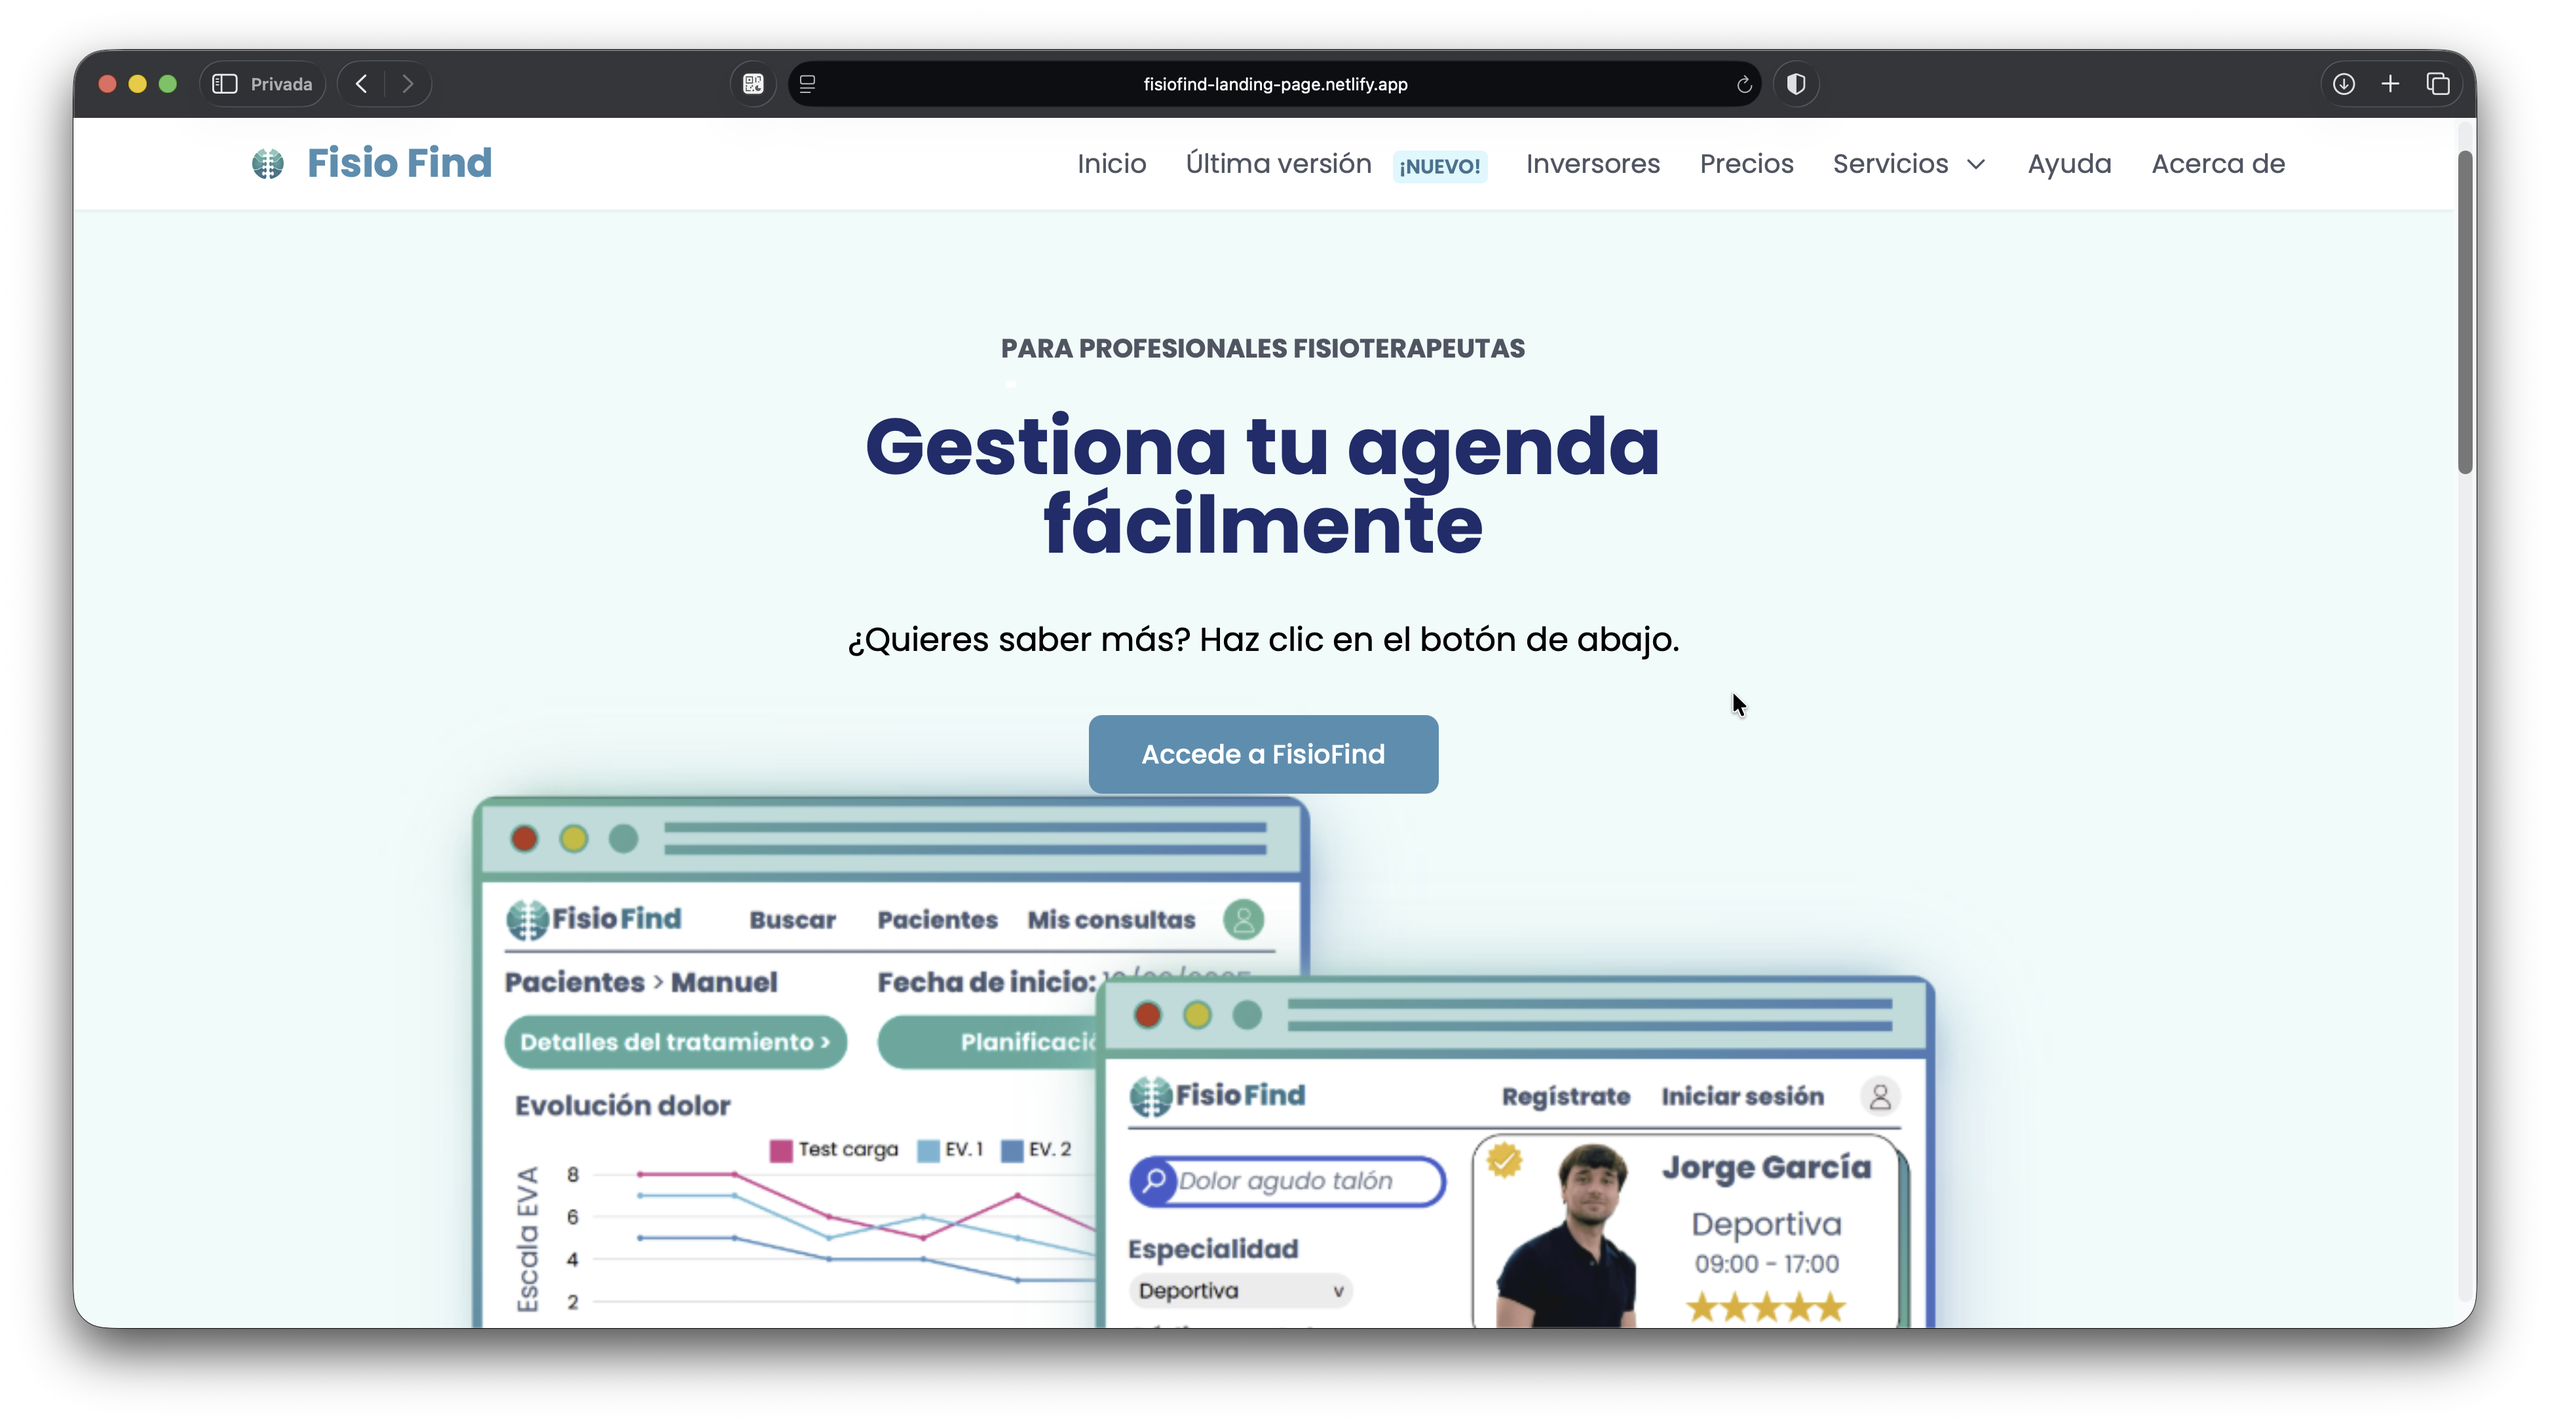
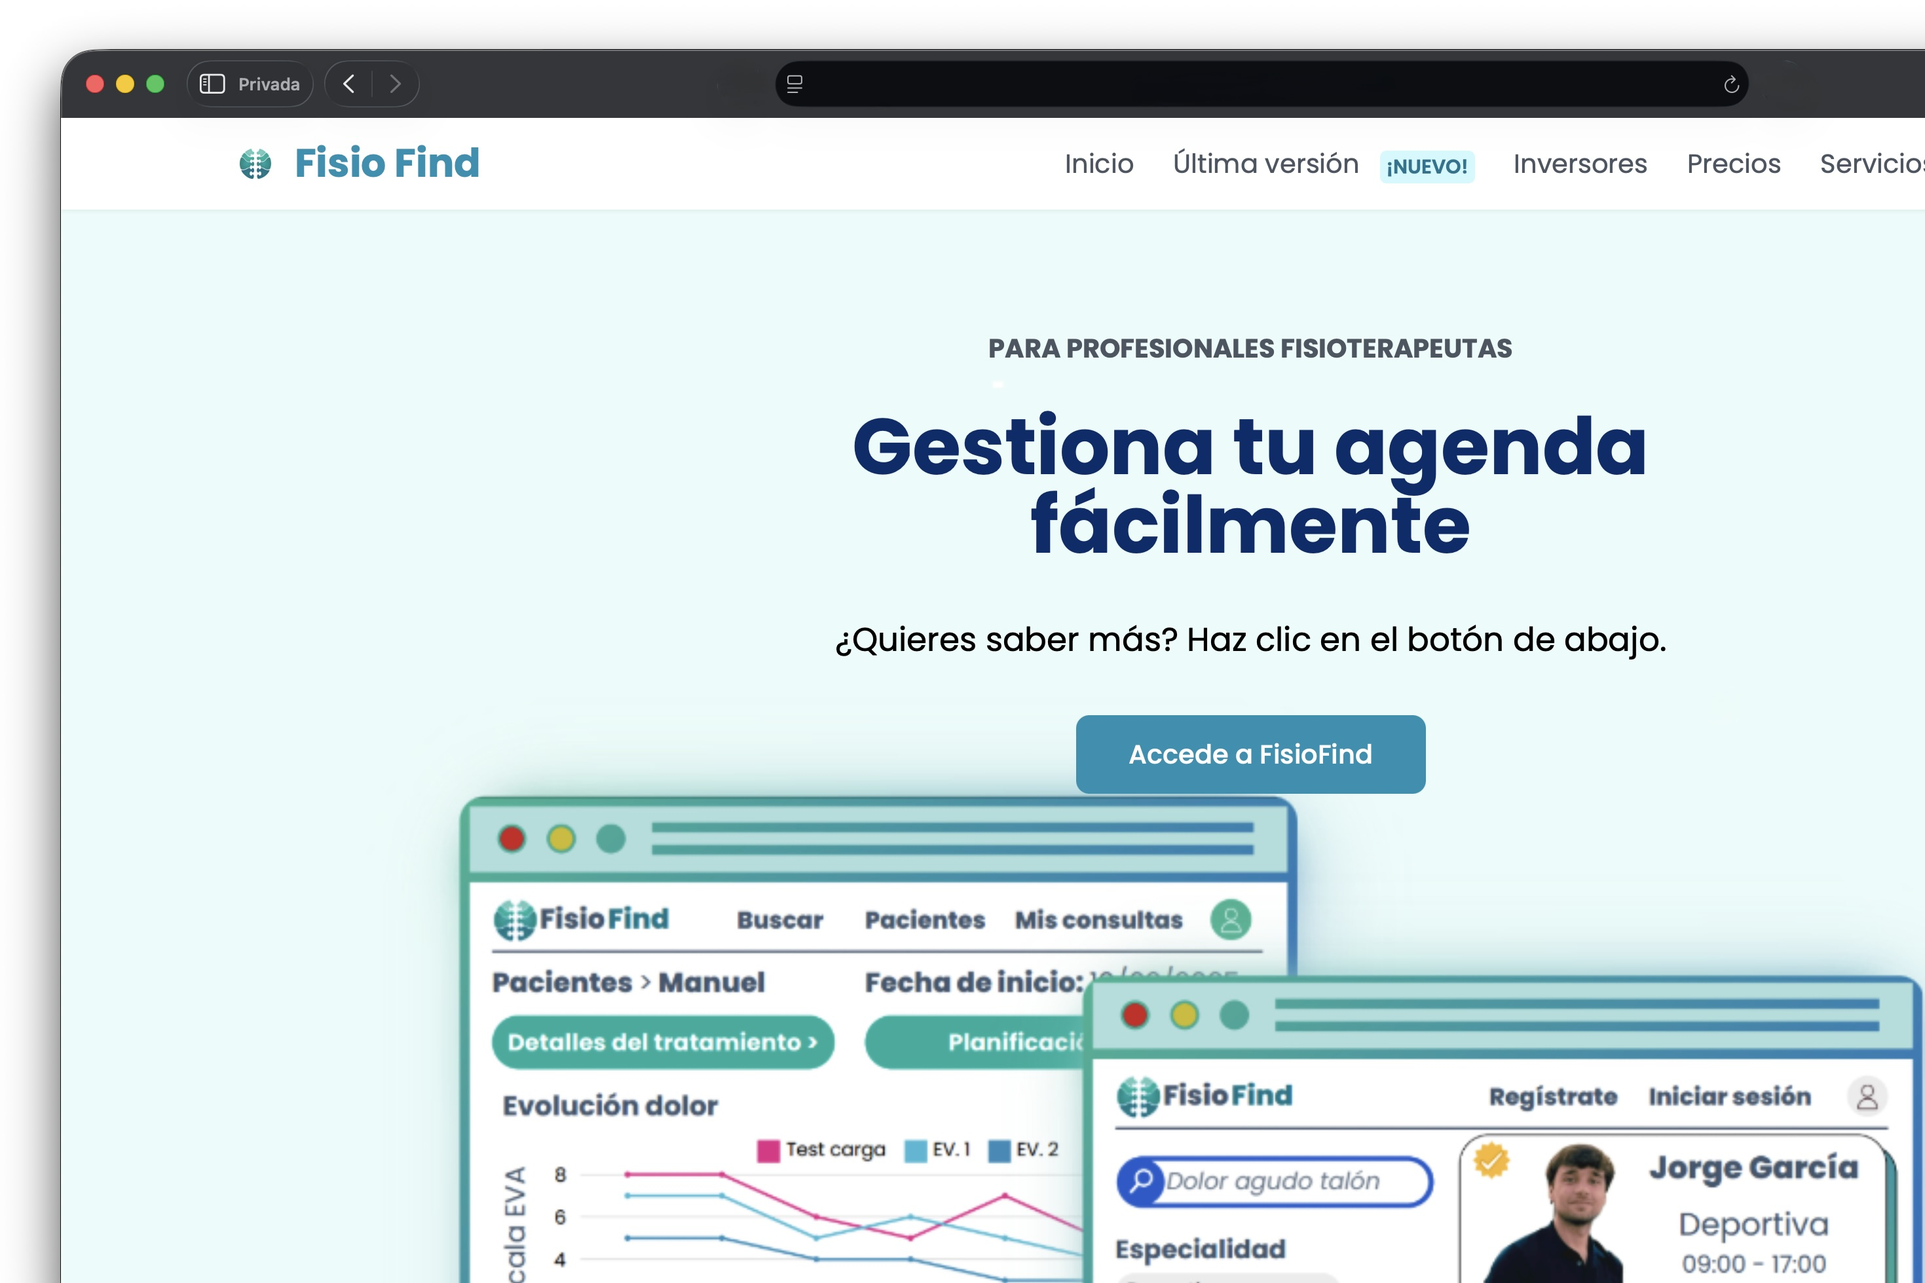
feat: add embla-carousel-wheel-gestures plugin and enhance navbar with service links

diff --git a/frontend/src/components/ui/navbar.tsx b/frontend/src/components/ui/navbar.tsx
@@ -171,6 +171,7 @@ const MobileSection = ({
 
 const Navbar = () => {
   const t = useTranslations("home");
+  const tServices = useTranslations("services");
   const locale = useLocale();
   const router = useRouter();
   const pathname = usePathname();
@@ -182,6 +183,40 @@ const Navbar = () => {
   const [hasEnrolledCourses, setHasEnrolledCourses] = useState(false);
   const [activeMegaItem, setActiveMegaItem] = useState<string | null>(null);
   const [viewportWidth, setViewportWidth] = useState<number | null>(null);
+
+  const serviceLinks = useMemo(
+    () => [
+      {
+        id: "callbot",
+        href: "/automatizaciones-chatbots",
+        title: tServices("showcase.chatbotRecepcionista"),
+        description: tServices("showcase.chatbotRecepcionistaNote"),
+        image: "/static/servicios/chatbot_recepcionista.webp",
+      },
+      {
+        id: "automation",
+        href: "/automatizaciones-personalizadas-para-empresas-con-n8n",
+        title: tServices("showcase.personalizadas"),
+        description: tServices("showcase.automationNote"),
+        image: "/static/servicios/automatizaciones_personalizadas.webp",
+      },
+      {
+        id: "odoo",
+        href: "/implantacion-odoo",
+        title: tServices("showcase.odoo"),
+        description: tServices("showcase.odooNote"),
+        image: "/static/servicios/implantacion_odoo.webp",
+      },
+      {
+        id: "pwa",
+        href: "/desarrollo-de-app-webs",
+        title: tServices("showcase.pwa"),
+        description: undefined as string | undefined,
+        image: "/static/servicios/desarrollo_de_app_webs.webp",
+      },
+    ],
+    [tServices],
+  );
 
   const { courses: allMenuCourses } = useSiteData();
 
@@ -413,7 +448,7 @@ const Navbar = () => {
   const navItems = useMemo(
     () => [
       { id: "home", type: "link", href: "/", label: t("navigation.home") },
-      { id: "services", type: "link", href: "/servicios", label: t("navigation.services") },
+      { id: "services", type: "mega", href: "/servicios", label: t("navigation.services") },
       ...(menuCourses.length > 0 ? [{ id: "formation", type: "mega", href: "/formacion", label: t("navigation.formation") }] : []),
       ...(locale !== "en" ? [{ id: "blog", type: "mega", href: "/blog", label: t("navigation.blog") }] : []),
       { id: "faq", type: "link", href: "/faq", label: t("navigation.faq") },
@@ -466,6 +501,7 @@ const Navbar = () => {
 
   const isBlogSectionActive = pathname.includes("/blog") || pathname.includes("/news");
   const shouldLoadCourseImages = activeMegaItem === t("navigation.formation");
+  const shouldLoadServiceImages = activeMegaItem === t("navigation.services");
 
   return (
     <>
@@ -504,6 +540,22 @@ const Navbar = () => {
                         item.id === "blog" ? isBlogSectionActive : isLinkActive(item.href)
                       }
                     >
+                      {item.id === "services" && (
+                        <div className="grid grid-cols-1 gap-3 min-w-[360px]">
+                          {serviceLinks.map((service) => (
+                            <ProductItem
+                              key={service.id}
+                              title={service.title}
+                              description={service.description}
+                              href={service.href}
+                              src={service.image}
+                              loadOnHover={false}
+                              loadEnabled={shouldLoadServiceImages}
+                            />
+                          ))}
+                          <HoveredLink href="/servicios">{t("navigation.serviceSubmenu")}</HoveredLink>
+                        </div>
+                      )}
                       {item.id === "formation" && (
                         <div className="grid grid-cols-1 gap-3 min-w-[360px]">
                           {menuCourses.length > 0 &&
@@ -615,6 +667,32 @@ const Navbar = () => {
           >
             <div className="py-4 px-4 sm:px-6">
               <div className="flex flex-col space-y-3">
+                <MobileSection
+                  title={t("navigation.services")}
+                  isOpen={mobileSection === "services"}
+                  onToggle={() => toggleMobileSection("services")}
+                >
+                  {serviceLinks.map((service) => (
+                    <Link
+                      key={service.id}
+                      href={service.href}
+                      onClick={() => setIsMenuOpen(false)}
+                      className="block rounded-md px-3 py-2 bg-white/60 dark:bg-black/20 hover:bg-[--swatch--ivory-medium] dark:hover:bg-[--swatch--slate-medium] transition-colors"
+                    >
+                      <div className="text-sm font-semibold text-slate-dark dark:text-ivory-light line-clamp-2">
+                        {service.title}
+                      </div>
+                    </Link>
+                  ))}
+                  <Link
+                    href="/servicios"
+                    onClick={() => setIsMenuOpen(false)}
+                    className="block rounded-md px-2 py-2 text-sm font-medium text-slate-medium dark:text-cloud-medium hover:text-clay dark:hover:text-clay hover:bg-[--swatch--ivory-medium] dark:hover:bg-[--swatch--slate-medium]"
+                  >
+                    {t("navigation.serviceSubmenu")}
+                  </Link>
+                </MobileSection>
+
                 {menuCourses.length > 0 && (
                   <MobileSection
                     title={t("navigation.formation")}
@@ -632,11 +710,6 @@ const Navbar = () => {
                           <div className="text-sm font-semibold text-slate-dark dark:text-ivory-light line-clamp-2">
                             {course.title}
                           </div>
-                          {(course.subtitle || course.description) && (
-                            <div className="text-xs text-slate-light dark:text-cloud-medium mt-1 line-clamp-2">
-                              {course.subtitle || course.description}
-                            </div>
-                          )}
                         </Link>
                       ))}
                     <Link
@@ -686,18 +759,6 @@ const Navbar = () => {
                     )}
                   >
                     {t("navigation.home")}
-                  </Link>
-                  <Link
-                    href="/servicios"
-                    onClick={() => setIsMenuOpen(false)}
-                    className={cn(
-                      "transition-colors py-3 px-2 block rounded-md font-medium",
-                      isLinkActive("/servicios")
-                        ? "text-clay dark:text-clay bg-clay/10 dark:bg-clay/10"
-                        : "text-slate-medium dark:text-cloud-medium hover:text-clay dark:hover:text-clay hover:bg-oat/60 dark:hover:bg-[--swatch--slate-light]/30",
-                    )}
-                  >
-                    {t("navigation.services")}
                   </Link>
                   <Link
                     href="/faq"

diff --git a/frontend/src/app/[locale]/desarrollo-de-app-webs/page.client.tsx b/frontend/src/app/[locale]/desarrollo-de-app-webs/page.client.tsx
@@ -3,6 +3,7 @@
 import { useMessages } from "next-intl";
 import dynamic from "next/dynamic";
 import Image from "next/image";
+import { Globe, MonitorSmartphone, Zap } from "lucide-react";
 import ContactForm from "@/components/ui/contact-form.client";
 import Footer from "@/components/ui/footer";
 import { InfoCardCarousel, type InfoCardItem } from "@/components/landing/info-card-carousel";
@@ -10,6 +11,22 @@ import { PortfolioList, type PortfolioProject } from "@/components/landing/portf
 import ReCaptchaWrapper from "../recaptcha-provider";
 import WhatsAppBubbleSkeleton from "@/components/home/whatsapp-bubble-skeleton";
 import { HeroVideoDialog } from "@/components/home/hero-video-dialog";
+
+const PWA_BULLET_ICONS = [Globe, MonitorSmartphone, Zap];
+
+function highlightWord(text: string | undefined, word: string) {
+  if (!text) return text;
+  const parts = text.split(new RegExp(`(${word})`));
+  return parts.map((part, i) =>
+    part === word ? (
+      <em key={i} className="italic">
+        {part}
+      </em>
+    ) : (
+      part
+    )
+  );
+}
 
 const WhatsAppBubble = dynamic(() => import("@/components/home/whatsapp-bubble"), {
   loading: () => <WhatsAppBubbleSkeleton />,
@@ -119,7 +136,7 @@ export default function DesarrolloDeAppWebs() {
       <section className="py-14 md:py-16 bg-neutral-50 dark:bg-neutral-800 transition-colors">
       <div className="mx-auto max-w-5xl">
         <h2 className="text-3xl md:text-4xl font-bold text-center mb-10 text-neutral-900 dark:text-white">
-          {content.videoSection?.title}
+          {highlightWord(content.videoSection?.title, "Agile")}
         </h2>
 
         <div className="max-w-3xl mx-auto">
@@ -143,41 +160,54 @@ export default function DesarrolloDeAppWebs() {
       </section>
 
       {/* WHAT IS A PWA */}
-      <section className="py-14 md:py-16 bg-white dark:bg-neutral-900 transition-colors">
+      <section className="py-16 md:py-24 bg-white dark:bg-neutral-900 transition-colors">
         <div className="max-w-6xl mx-auto px-6">
-          <h2 className="text-3xl md:text-4xl font-bold text-center mb-8 text-neutral-900 dark:text-white">
-            {content.sectionTitles?.whatIsPWA}
-          </h2>
-
-          <div className="grid md:grid-cols-2 gap-12 items-center">
+          <div className="grid md:grid-cols-2 gap-12 md:gap-16 items-center">
             <div>
-              <p className="text-lg text-neutral-700 dark:text-neutral-300 leading-relaxed mb-4">
+              <h2 className="text-3xl md:text-4xl font-bold text-slate-dark dark:text-ivory-light mb-5 leading-tight">
+                {content.sectionTitles?.whatIsPWA}
+              </h2>
+              <p className="text-lg text-slate-medium dark:text-cloud-medium leading-relaxed mb-8">
                 {content.whatIsPWA?.intro}
               </p>
-              <ul className="space-y-3">
-                {content.whatIsPWA?.bullets?.map((bullet: string, i: number) => (
-                  <li key={i} className="flex items-start gap-3 text-neutral-700 dark:text-neutral-300">
-                    <span className="mt-2 shrink-0 w-1.5 h-1.5 rounded-full bg-[#d97757]" />
-                    {bullet}
-                  </li>
-                ))}
+
+              <ul className="space-y-2">
+                {content.whatIsPWA?.bullets?.map((bullet: string, i: number) => {
+                  const Icon = PWA_BULLET_ICONS[i % PWA_BULLET_ICONS.length];
+                  return (
+                    <li
+                      key={i}
+                      className="flex items-start gap-4 rounded-xl p-3 -mx-3 transition-colors hover:bg-ivory-medium dark:hover:bg-neutral-800"
+                    >
+                      <span className="flex h-9 w-9 shrink-0 items-center justify-center rounded-lg bg-clay/10 text-clay dark:bg-clay/15">
+                        <Icon className="h-5 w-5" strokeWidth={2} />
+                      </span>
+                      <span className="pt-1.5 text-slate-dark dark:text-ivory-light leading-relaxed">
+                        {bullet}
+                      </span>
+                    </li>
+                  );
+                })}
               </ul>
             </div>
-            <div className="flex justify-center md:justify-end">
+
+            <div className="flex justify-center">
               <Image
                 src="/static/desarrollo-de-app-webs/pwa.webp"
                 alt={content.title}
-                width={720}
-                height={540}
-                className="w-full max-w-[520px] rounded-2xl shadow-2xl border border-neutral-200 dark:border-neutral-700 object-cover"
+                width={2048}
+                height={771}
+                className="w-full max-w-md h-auto object-contain dark:invert transition-[filter] duration-300"
               />
             </div>
           </div>
 
           {content.whatIsPWA?.highlight && (
-            <p className="mt-8 max-w-3xl mx-auto text-center text-lg font-medium text-neutral-800 dark:text-neutral-200 leading-relaxed">
-              {content.whatIsPWA.highlight}
-            </p>
+            <div className="mt-14 max-w-3xl mx-auto rounded-2xl bg-ivory-light dark:bg-neutral-800 border-l-4 border-clay p-6 md:p-8 transition-colors">
+              <p className="text-lg font-medium text-slate-dark dark:text-ivory-light leading-relaxed">
+                {content.whatIsPWA.highlight}
+              </p>
+            </div>
           )}
         </div>
       </section>

diff --git a/frontend/src/components/ui/carousel.tsx b/frontend/src/components/ui/carousel.tsx
@@ -3,6 +3,7 @@
 import React, { useEffect, useMemo, useRef, useState, type ReactNode } from "react";
 import useEmblaCarousel from "embla-carousel-react";
 import Autoplay from "embla-carousel-autoplay";
+import { WheelGesturesPlugin } from "embla-carousel-wheel-gestures";
 import type { EmblaOptionsType } from "embla-carousel";
 import { useCarouselButtons } from "./carousel-buttons";
 import { CarouselNavButtons } from "./carousel-nav-buttons";
@@ -51,15 +52,17 @@ export function Carousel<T>({
   fixedWidthSlides = false,
 }: CarouselProps<T>) {
   const plugins = useMemo(
-    () =>
-      autoplay
+    () => [
+      WheelGesturesPlugin(),
+      ...(autoplay
         ? [Autoplay({ delay: autoplayDelay, stopOnInteraction: false, stopOnMouseEnter: true })]
-        : [],
+        : []),
+    ],
     [autoplay, autoplayDelay],
   );
 
   const [emblaRef, emblaApi] = useEmblaCarousel(
-    { align: "start", containScroll: fixedWidthSlides ? false : "keepSnaps", ...options },
+    { align: "start", containScroll: fixedWidthSlides ? false : "keepSnaps", dragFree: true, ...options },
     plugins,
   );
 

diff --git a/frontend/src/components/landing/portfolio-list.tsx b/frontend/src/components/landing/portfolio-list.tsx
@@ -32,7 +32,7 @@ export function PortfolioList({ projects, ctaLabel, className }: PortfolioListPr
               href={project.href}
               target="_blank"
               rel="noopener noreferrer"
-              className={`group relative w-full rounded-3xl bg-linear-to-br from-ivory-light to-[#F3E2D8] dark:from-neutral-800 dark:to-neutral-900 px-6 pt-10 md:p-12 flex flex-col ${reversed ? "md:flex-row-reverse" : "md:flex-row"} items-center gap-8 md:gap-4 overflow-hidden transition-shadow hover:shadow-xl`}
+              className={`group relative w-full rounded-3xl bg-gradient-to-br from-heather/30 via-ivory-light to-coral/30 dark:from-neutral-800 dark:via-neutral-800 dark:to-neutral-900 px-6 pt-10 md:p-12 flex flex-col ${reversed ? "md:flex-row-reverse" : "md:flex-row"} items-center gap-8 md:gap-4 overflow-hidden transition-shadow hover:shadow-xl`}
             >
               <div
                 className="pointer-events-none absolute inset-0 opacity-[0.05] mix-blend-overlay"

diff --git a/frontend/src/components/formation/course-sidebar.tsx b/frontend/src/components/formation/course-sidebar.tsx
@@ -171,13 +171,15 @@ const CourseSidebar: React.FC<Props> = ({
         )}
 
         {hasEnded && showRequestEdition && (
-          <Button
-            onClick={onRequestEdition}
-            variant="flame"
-            className="w-full shadow-lg transition-all duration-300 transform hover:scale-105"
-          >
-            {requestEditionLabel}
-          </Button>
+          <div className="hidden lg:block">
+            <Button
+              onClick={onRequestEdition}
+              variant="flame"
+              className="w-full shadow-lg transition-all duration-300 transform hover:scale-105"
+            >
+              {requestEditionLabel}
+            </Button>
+          </div>
         )}
       </div>
 
